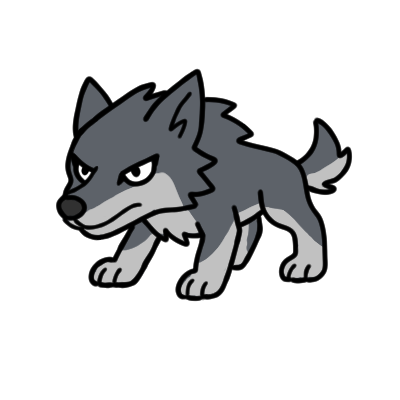
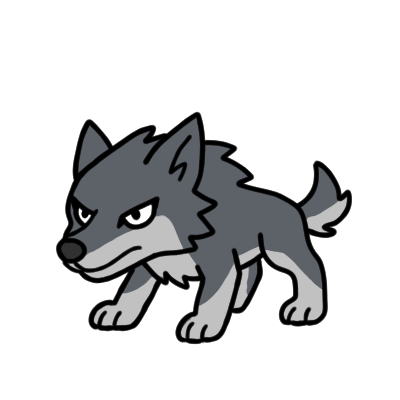
250922
-몬스터 위치 수정
-몬스터 테이블 수정

Changed region(s): [[0.12, 0.15, 0.9, 0.87]]

diff --git a/Assets/GB/GSheet/GameData/MonTable.cs b/Assets/GB/GSheet/GameData/MonTable.cs
@@ -34,10 +34,8 @@ public class MonTable  : GameData
 				case "Stat": return true;
 				case "W": return true;
 				case "H": return true;
-				case "OffX": return true;
-				case "OffY": return true;
 				case "SdwScr": return true;
-				case "SdwY": return true;
+				case "GgY": return true;
 				case "KR": return true;
 				case "EN": return true;
 
@@ -70,10 +68,8 @@ public class MonTable  : GameData
 				case "Stat": return data.Stat;
 				case "W": return data.W;
 				case "H": return data.H;
-				case "OffX": return data.OffX;
-				case "OffY": return data.OffY;
 				case "SdwScr": return data.SdwScr;
-				case "SdwY": return data.SdwY;
+				case "GgY": return data.GgY;
 				case "KR": return data.KR;
 				case "EN": return data.EN;
 
@@ -97,10 +93,8 @@ public class MonTable  : GameData
 				case "Stat": return data.Stat;
 				case "W": return data.W;
 				case "H": return data.H;
-				case "OffX": return data.OffX;
-				case "OffY": return data.OffY;
 				case "SdwScr": return data.SdwScr;
-				case "SdwY": return data.SdwY;
+				case "GgY": return data.GgY;
 				case "KR": return data.KR;
 				case "EN": return data.EN;
 
@@ -125,12 +119,10 @@ public class MonTable  : GameData
 				case 3: return data.Stat;
 				case 4: return data.W;
 				case 5: return data.H;
-				case 6: return data.OffX;
-				case 7: return data.OffY;
-				case 8: return data.SdwScr;
-				case 9: return data.SdwY;
-				case 10: return data.KR;
-				case 11: return data.EN;
+				case 6: return data.SdwScr;
+				case 7: return data.GgY;
+				case 8: return data.KR;
+				case 9: return data.EN;
 
                 default: return null;
             }
@@ -179,10 +171,8 @@ public class MonTableProb : GameDataProb
 	[JsonProperty] public readonly string Stat;
 	[JsonProperty] public readonly int W;
 	[JsonProperty] public readonly int H;
-	[JsonProperty] public readonly float OffX;
-	[JsonProperty] public readonly float OffY;
 	[JsonProperty] public readonly float SdwScr;
-	[JsonProperty] public readonly float SdwY;
+	[JsonProperty] public readonly float GgY;
 	[JsonProperty] public readonly string KR;
 	[JsonProperty] public readonly string EN;
 

diff --git a/Assets/Scripts/Manager/MonManager.cs b/Assets/Scripts/Manager/MonManager.cs
@@ -22,14 +22,14 @@ public class MonManager : AutoSingleton<MonManager>
             MonData mData = CreateMonData(id, mon.Type, mon.Name,
             int.Parse(stat[0]), int.Parse(stat[1]), int.Parse(stat[2]), int.Parse(stat[3]), int.Parse(stat[4]),
             int.Parse(stat[5]), int.Parse(stat[6]), int.Parse(stat[7]),
-            mon.W, mon.H, mon.OffX, mon.OffY, mon.SdwScr, mon.SdwY);
+            mon.W, mon.H, mon.SdwScr);
             MonDataList[id] = mData;
         }
     }
     //VIT_END_STR_AGI_FOR_INT_CHA_LUK
     private MonData CreateMonData(int id, int monType, string name,
     int VIT, int END, int STR, int AGI, int FOR, int INT, int CHA, int LUK,
-    float w, float h, float offX, float offY, float sdwScr, float sdwY)
+    float w, float h, float sdwScr)
     {
         return new MonData
         {
@@ -46,10 +46,7 @@ public class MonManager : AutoSingleton<MonManager>
             LUK = LUK,
             W = w,
             H = h,
-            OffX = offX,
-            OffY = offY,
             SdwScr = sdwScr,
-            SdwY = sdwY,
             Lv = LevelData.I.GetLv(VIT, END, STR, AGI, FOR, INT, CHA, LUK),
         };
     }

diff --git a/Assets/Scripts/Common/GameData.cs b/Assets/Scripts/Common/GameData.cs
@@ -98,7 +98,7 @@ public class MonData
     public string Name;
     public int Att, Def, Crt, CrtRate, Hit, Eva;
     public int VIT, END, STR, AGI, FOR, INT, CHA, LUK;
-    public float W, H, OffX, OffY, SdwScr, SdwY; // 몬스터 오브젝트 크기, 몬스터 오브젝트 X,Y 좌표, 몬스터 그림자 스케일, 몬스터 그림자 Y 좌표
+    public float W, H, SdwScr; // 몬스터 오브젝트 크기, 몬스터 오브젝트 X,Y 좌표, 몬스터 그림자 스케일, 몬스터 그림자 Y 좌표
     public MonData Clone()
     {
         return new MonData
@@ -133,10 +133,7 @@ public class MonData
             MaxSP = SP,
             W = this.W,
             H = this.H,
-            OffX = this.OffX,
-            OffY = this.OffY,
             SdwScr = this.SdwScr,
-            SdwY = this.SdwY,
             GainExp = LevelData.I.GetGainExp(HP, SP, MP, STR, AGI, INT, CHA, LUK),
         };
     }

diff --git a/Assets/Scripts/Battle/bMonster.cs b/Assets/Scripts/Battle/bMonster.cs
@@ -16,8 +16,7 @@ public class bMonster : MonoBehaviour
         monData = MonManager.I.MonDataList[monsterId].Clone();
         bodyObj.GetComponent<SpriteRenderer>().sprite = ResManager.GetSprite("mon_" + monsterId);
         shdObj.transform.localScale = new Vector3(monData.SdwScr, monData.SdwScr, 1);
-        shdObj.transform.localPosition = new Vector3(0, monData.SdwY, 0);
-        bodyObj.transform.localPosition = new Vector3(0, monData.OffY, 0);
+        //shdObj.transform.localPosition = new Vector3(0, monData.SdwY, 0);
         ggParent.SetActive(false);
         maxHp = monData.HP;
         hp = maxHp;
